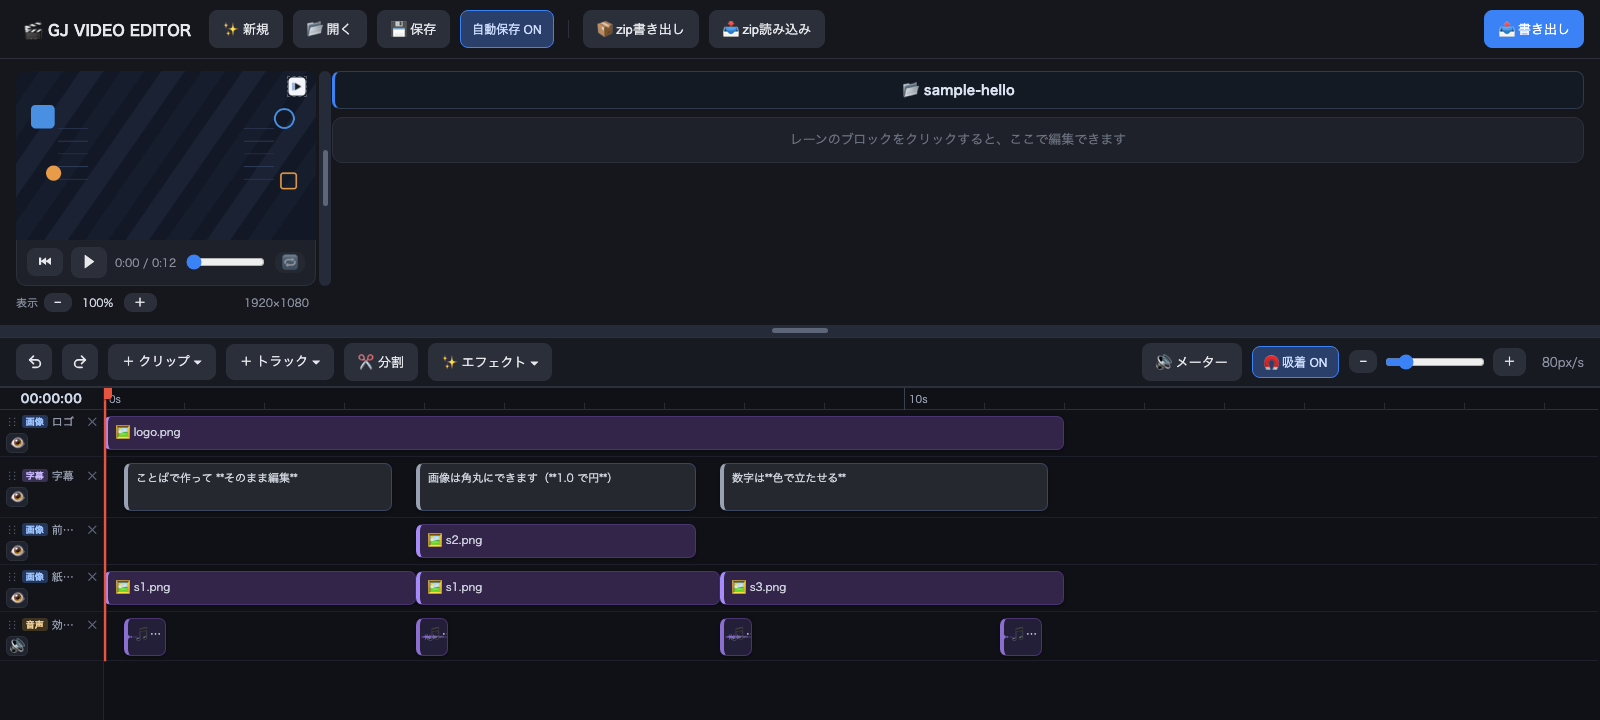
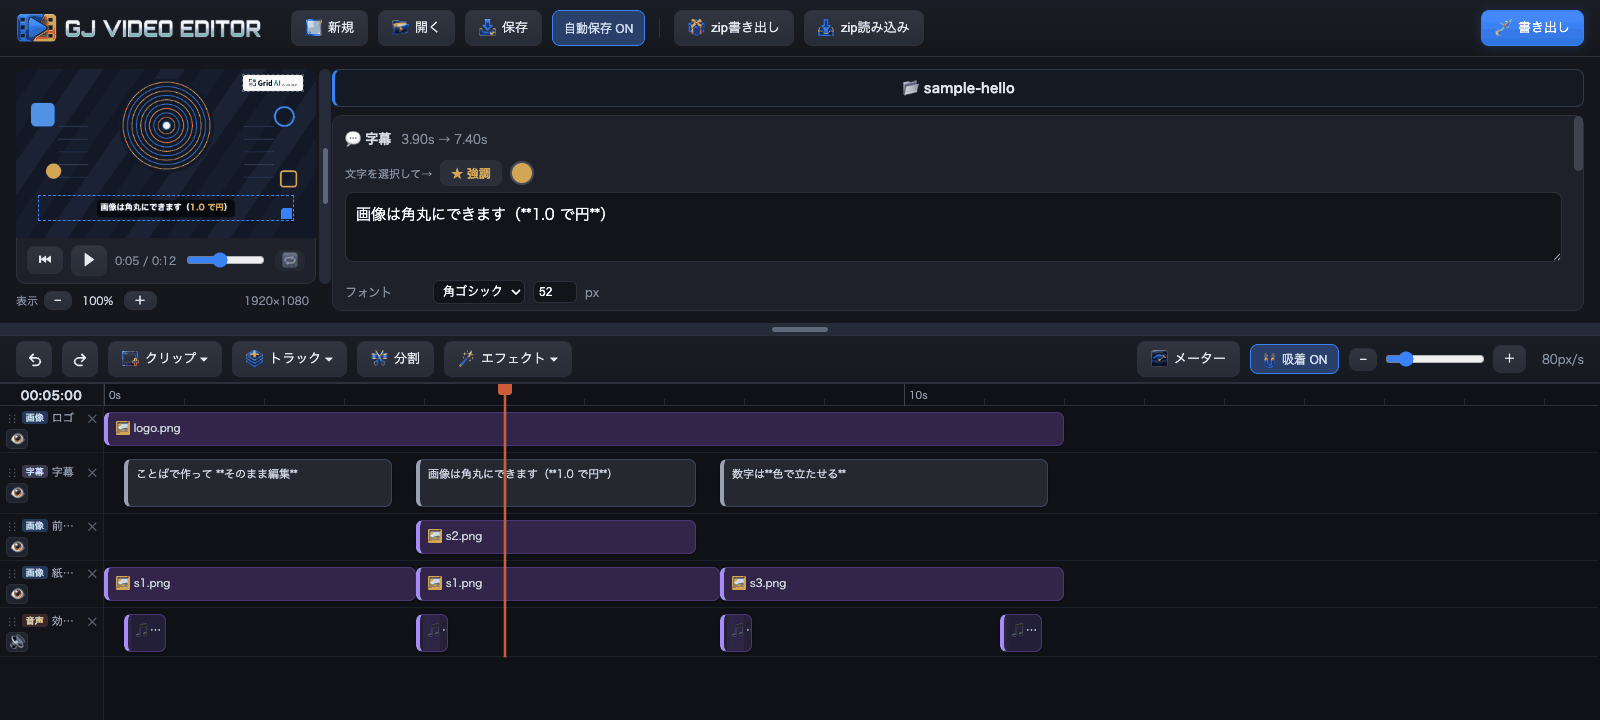
紹介ページを v0.16.0 に合わせて刷新
- スクリーンショット3枚を新しいUIで撮り直し
- 見出しを『AIで作り、必要なところだけ直せる』へ
- できること表に v0.16.0 の機能を追加（字幕アニメ・画像の動き・速度・色調整・
  トランジション・ダッキング・多言語・SRT・区間書き出し）
- 『壊れたものを成功と言わない』節を新設（検査とテストの説明）
- ヘッダのロゴマークとファビコンを追加

diff --git a/docs/jp/index.html b/docs/jp/index.html
@@ -3,12 +3,13 @@
 <head>
 <meta charset="utf-8">
 <meta name="viewport" content="width=device-width, initial-scale=1">
-<title>video-editor — 自然言語で作り、UIで仕上げる動画づくり</title>
-<meta name="description" content="AIに日本語で頼んで作り、タイムラインUIで仕上げる。Python標準ライブラリ＋Pillow＋ffmpegだけで動く、依存ゼロの動画編集ツール。MITライセンス。">
-<meta property="og:title" content="video-editor">
-<meta property="og:description" content="自然言語で作り、UIで仕上げる動画づくり。依存ゼロ・MITライセンス。">
+<title>GJ VIDEO EDITOR — AIで作り、必要なところだけ直せる動画ツール</title>
+<meta name="description" content="日本語で頼めばAIが動画を1本組み上げます。気になるところだけタイムラインUIで直せば、言い直すより早い。Python標準ライブラリ＋Pillow＋ffmpegだけで動く、依存ゼロ・MITライセンス。">
+<meta property="og:title" content="GJ VIDEO EDITOR">
+<meta property="og:description" content="AIで作り、必要なところだけ直せる。依存ゼロ・MITライセンス。">
 <meta property="og:image" content="../assets/editor.png">
 <meta property="og:type" content="website">
+<link rel="icon" type="image/png" href="../assets/favicon.png">
 <link rel="alternate" hreflang="ja" href="https://gridjapan.github.io/gjVideoEditor/jp/">
 <link rel="alternate" hreflang="en" href="https://gridjapan.github.io/gjVideoEditor/en/">
 <style>
@@ -29,7 +30,9 @@
   header{position:sticky;top:0;z-index:10;background:rgba(255,255,255,.88);
     backdrop-filter:saturate(180%) blur(12px);border-bottom:1px solid var(--line)}
   .hbar{display:flex;align-items:center;gap:20px;height:60px}
-  .logo{font-weight:700;color:var(--ink);font-size:15px;letter-spacing:.02em}
+  .logo{font-weight:700;color:var(--ink);font-size:15px;letter-spacing:.02em;
+    display:inline-flex;align-items:center;gap:8px}
+  .logo img{display:block;border-radius:4px}
   .hbar nav{margin-left:auto;display:flex;gap:18px;align-items:center;font-size:13px}
   .hbar nav a{color:var(--body)}
   .lang{color:var(--muted);font-size:12px}
@@ -108,7 +111,7 @@
 
 <header>
   <div class="wrap hbar">
-    <span class="logo">🎬 GJ VIDEO EDITOR</span>
+    <span class="logo"><img src="../assets/mark.png" alt="" width="22" height="22">GJ VIDEO EDITOR</span>
     <nav>
       <a href="#how">仕組み</a>
       <a href="#features">できること</a>
@@ -124,10 +127,11 @@
 
   <div class="hero">
     <p class="badge">開発中 · v0.16.0</p>
-    <h1>AIで作った動画を、<em>そのままUIで編集できる。</em></h1>
+    <h1>AIで作り、<em>必要なところだけ直せる。</em></h1>
     <p class="lede">
-      「この動画を作って」と頼んで出てきたものを、タイムラインで直接いじれます。
-      直したあとにまた言葉で指示しても、UIでの手直しは消えません。
+      作りたい動画を日本語で伝えれば、台本・音声・字幕・書き出しまでAIが進めます。
+      そのまま完成でも構いません。気になるところがあれば、
+      <strong>言い直すより早く、タイムラインで直せます。</strong>
     </p>
     <p class="sub">Python標準ライブラリ ＋ Pillow ＋ ffmpeg だけ。クラウドもAPIキーも不要です。</p>
     <img class="shot" src="../assets/editor.png" alt="video-editor の編集画面。上にプレビュー、下にマルチトラックのタイムライン">
@@ -149,17 +153,17 @@
 
     <div class="cols">
       <div class="card">
-        <h3>AIが書く（8割）</h3>
-        <p>差分パッチとして当たります。重なり・素材の欠落・尺の超過は<strong>保存する前に弾かれる</strong>ので、壊れたものができません。</p>
+        <h3>頼めば、1本できる</h3>
+        <p>AIの変更は差分パッチとして当たります。クリップの重なり・素材の欠落・尺の超過は<strong>保存する前に弾かれる</strong>ので、壊れたものができません。</p>
       </div>
       <div class="card">
-        <h3>人が直す（2割）</h3>
-        <p>ブラウザのタイムラインで直接動かします。他所からの更新とぶつかれば検知して止まります。</p>
+        <h3>直したいときは、そのまま触れる</h3>
+        <p>「この字幕を0.5秒ずらして、少し右へ」を言葉で伝えるより、掴んで動かすほうが早い場面があります。UIには同じデータがそのまま映っています。</p>
       </div>
     </div>
 
     <p class="note" style="margin-top:18px">
-      さらに、人が直した内容をAIが読み返せます。同じ直しが繰り返されているなら、それはAIの既定値が間違っているということです。
+      直した内容はAIが読み返せます。同じ直しが繰り返されているなら、それはAIの既定値が間違っているということです。
     </p>
   </section>
 
@@ -171,11 +175,35 @@
       <tr><th>タイムライン編集</th><td>映像・字幕・画像・音声のマルチトラック。ドラッグ&ドロップ、分割、undo/redo、吸着、ズーム</td></tr>
       <tr><th>非破壊編集</th><td>長い元動画を1本置いたまま、参照位置だけをずらして使います。切り出しファイルを作らないので、<strong>端をいつでも伸ばせます</strong></td></tr>
       <tr><th>字幕</th><td>枠のドラッグ・リサイズ・フォント・360°回転・<strong>縦書き</strong>・部分強調・画面端への吸着</td></tr>
+      <tr><th>字幕アニメーション</th><td><strong>数字のカウントアップ</strong>・1文字ずつの文字送り・画面外からのスライドイン・スタンプ登場。数値の差を見せる<strong>比較バー</strong>も付けられます</td></tr>
+      <tr><th>画像の動き</th><td>フェードイン／アウト・不透明度・ゆっくり寄る／引く（ケンバーンズ）・上下左右へのパン</td></tr>
+      <tr><th>映像の調整</th><td>再生速度（0.25〜4倍。声の高さは保ったまま）・左右反転・トリミング・角丸</td></tr>
+      <tr><th>色調整</th><td>明るさ・コントラスト・彩度。<strong>プレビューと書き出しが同じ計算式</strong>なので、見たまま出ます</td></tr>
+      <tr><th>トランジション</th><td>フェードイン／アウト／クロスフェードをワンクリックで。重ね方はツールが自動で組みます</td></tr>
       <tr><th>ワイプ（PiP）</th><td>プレビュー上でドラッグして移動・拡大縮小。角丸を1.0にすると正円になります</td></tr>
-      <tr><th>書き出し</th><td>MP4 / WebM / GIF / MP3。画質と解像度を選べます</td></tr>
+      <tr><th>音声</th><td>音量・フェード・<strong>BGMの自動ダッキング</strong>（ナレーション中だけ沈む）・短いBGMのループ・ラウドネス正規化</td></tr>
       <tr><th>ナレーション</th><td>無料でAPIキー不要の音声合成に対応。複数の声を使い分けられます</td></tr>
+      <tr><th>マスク</th><td>モザイク・ぼかし・黒塗り。会議録画に映り込んだものを隠せます</td></tr>
+      <tr><th>多言語</th><td>文字種に合わせてフォントを自動で切り替え。<strong>フォントが描けない文字は書き出す前に検出</strong>します</td></tr>
+      <tr><th>字幕ファイル</th><td>SRTの書き出しと取り込み。他ツールで作った字幕もそのまま持ち込めます</td></tr>
+      <tr><th>書き出し</th><td>MP4 / WebM / GIF / MP3。画質・解像度に加えて<strong>秒数で範囲を指定</strong>できます（直した数秒だけの確認に）</td></tr>
       <tr><th>量産</th><td>台本を1枚書いて1コマンドで動画が1本。Pythonは書きません</td></tr>
     </table>
+
+    <h3 style="margin-top:34px">壊れたものを「成功」と言わない</h3>
+    <p>
+      書き出しは、失敗しても最後まで走ってしまうことがあります。このツールは<strong>保存と書き出しの前に検査します。</strong>
+    </p>
+    <table>
+      <tr><th>重なり・尺</th><td>同じトラックでクリップが重なっていないか。素材の長さを超えて伸ばしていないか</td></tr>
+      <tr><th>文字化け</th><td>選んだフォントで<strong>描けない文字（□になる字）を事前に検出</strong>します</td></tr>
+      <tr><th>読めるか</th><td>字幕と下敷きのコントラスト比、実際の描画幅での枠からの溢れ</td></tr>
+      <tr><th>素材の実在</th><td>足りないファイルを名前で挙げて止まります。英語のエラーは出しません</td></tr>
+    </table>
+    <p class="note">
+      検査そのものにも総当りのテストが付いています（レンダラ40項目・編集ツール32項目・サーバ31項目）。
+      判定は「例外が出なかったか」ではなく、<strong>書き出した動画の画素と音量を実測して</strong>行います。
+    </p>
 
     <h3 style="margin-top:34px">このツールで作った動画</h3>
     <p class="note">下の28秒の動画も、このツールで組み立てて書き出したものです。</p>

diff --git a/docs/en/index.html b/docs/en/index.html
@@ -3,12 +3,13 @@
 <head>
 <meta charset="utf-8">
 <meta name="viewport" content="width=device-width, initial-scale=1">
-<title>video-editor — Build with words, finish in the UI</title>
-<meta name="description" content="Ask an AI in plain language, then finish it on a timeline UI. Runs on the Python standard library, Pillow and ffmpeg. No cloud, no API keys. MIT licensed.">
-<meta property="og:title" content="video-editor">
-<meta property="og:description" content="Build with words, finish in the UI. No dependencies to speak of. MIT licensed.">
+<title>GJ VIDEO EDITOR — Built by AI, fixable where it matters</title>
+<meta name="description" content="Describe the video you want and an AI assembles it end to end. Keep it as is, or fix the parts that bother you on a timeline — faster than explaining them again. Python standard library + Pillow + ffmpeg. MIT licensed.">
+<meta property="og:title" content="GJ VIDEO EDITOR">
+<meta property="og:description" content="Built by AI, fixable where it matters. No dependencies to speak of. MIT licensed.">
 <meta property="og:image" content="../assets/editor.png">
 <meta property="og:type" content="website">
+<link rel="icon" type="image/png" href="../assets/favicon.png">
 <link rel="alternate" hreflang="ja" href="https://gridjapan.github.io/gjVideoEditor/jp/">
 <link rel="alternate" hreflang="en" href="https://gridjapan.github.io/gjVideoEditor/en/">
 <style>
@@ -29,7 +30,9 @@
   header{position:sticky;top:0;z-index:10;background:rgba(255,255,255,.88);
     backdrop-filter:saturate(180%) blur(12px);border-bottom:1px solid var(--line)}
   .hbar{display:flex;align-items:center;gap:20px;height:60px}
-  .logo{font-weight:700;color:var(--ink);font-size:15px;letter-spacing:.02em}
+  .logo{font-weight:700;color:var(--ink);font-size:15px;letter-spacing:.02em;
+    display:inline-flex;align-items:center;gap:8px}
+  .logo img{display:block;border-radius:4px}
   .hbar nav{margin-left:auto;display:flex;gap:18px;align-items:center;font-size:13px}
   .hbar nav a{color:var(--body)}
   .lang{color:var(--muted);font-size:12px}
@@ -108,7 +111,7 @@
 
 <header>
   <div class="wrap hbar">
-    <span class="logo">🎬 GJ VIDEO EDITOR</span>
+    <span class="logo"><img src="../assets/mark.png" alt="" width="22" height="22">GJ VIDEO EDITOR</span>
     <nav>
       <a href="#how">How</a>
       <a href="#features">Features</a>
@@ -124,10 +127,11 @@
 
   <div class="hero">
     <p class="badge">Work in progress · v0.16.0</p>
-    <h1>Video made by AI, <em>editable in a real UI.</em></h1>
+    <h1>Built by AI, <em>fixable where it matters.</em></h1>
     <p class="lede">
-      Ask for a video, then drag what came out around on a timeline.
-      Prompt again afterwards and your manual edits are still there.
+      Describe the video you want and the AI handles the script, the voice, the subtitles
+      and the export. Ship it as is — or, when something bothers you,
+      <strong>fix it on the timeline instead of explaining it again.</strong>
     </p>
     <p class="sub">Python standard library + Pillow + ffmpeg. No cloud, no API keys.</p>
     <img class="shot" src="../assets/editor.png" alt="The video-editor workspace: preview on top, multi-track timeline below">
@@ -149,12 +153,12 @@
 
     <div class="cols">
       <div class="card">
-        <h3>The AI writes (80%)</h3>
-        <p>Changes land as diffs. Overlaps, missing assets and out-of-range durations are <strong>rejected before saving</strong>, so you never end up with a broken project.</p>
+        <h3>Ask once, get a video</h3>
+        <p>The AI's changes land as diffs. Overlapping clips, missing assets and out-of-range durations are <strong>rejected before saving</strong>, so you never end up with a broken project.</p>
       </div>
       <div class="card">
-        <h3>You fix (20%)</h3>
-        <p>Drag things around on the timeline in your browser. Conflicting edits from elsewhere are detected and blocked.</p>
+        <h3>Reach in whenever you want</h3>
+        <p>"Move that subtitle half a second later and a bit to the right" is sometimes just faster to drag than to describe. The UI shows exactly the same data.</p>
       </div>
     </div>
 
@@ -171,11 +175,36 @@
       <tr><th>Timeline</th><td>Multi-track video, subtitles, images and audio. Drag &amp; drop, split, undo/redo, snapping, zoom</td></tr>
       <tr><th>Non-destructive</th><td>Keep one long source and just move the in-point. Nothing is cut out, so <strong>you can always extend a clip's edges</strong></td></tr>
       <tr><th>Subtitles</th><td>Drag, resize, fonts, 360° rotation, <strong>vertical writing</strong>, inline emphasis, edge snapping</td></tr>
+      <tr><th>Subtitle animation</th><td><strong>Counting numbers up</strong>, typewriter reveal, slide-in from off-screen, stamp-style pop. Add a <strong>comparison bar</strong> to make a gap between two numbers obvious</td></tr>
+      <tr><th>Image motion</th><td>Fade in/out, opacity, slow push in or pull out (Ken Burns), and panning in any direction</td></tr>
+      <tr><th>Video adjustments</th><td>Playback speed (0.25×–4×, pitch preserved), horizontal flip, cropping, rounded corners</td></tr>
+      <tr><th>Colour</th><td>Brightness, contrast and saturation. <strong>The preview and the export use the same formula</strong>, so what you see is what you get</td></tr>
+      <tr><th>Transitions</th><td>Fade in, fade out and cross-fade in one click. The tool works out the layering for you</td></tr>
       <tr><th>Picture-in-picture</th><td>Drag and scale right on the preview. Set the corner radius to 1.0 for a perfect circle</td></tr>
-      <tr><th>Export</th><td>MP4 / WebM / GIF / MP3, with quality and resolution options</td></tr>
+      <tr><th>Audio</th><td>Gain, fades, <strong>automatic music ducking</strong> under narration, looping for short tracks, loudness normalisation</td></tr>
       <tr><th>Narration</th><td>Free text-to-speech, no API key. Mix multiple voices</td></tr>
+      <tr><th>Masking</th><td>Mosaic, blur or solid fill — for whatever wandered into a screen recording</td></tr>
+      <tr><th>Multilingual</th><td>Fonts switch automatically by script. <strong>Characters the font cannot draw are caught before export</strong></td></tr>
+      <tr><th>Subtitle files</th><td>Import and export SRT, so subtitles made elsewhere come straight in</td></tr>
+      <tr><th>Export</th><td>MP4 / WebM / GIF / MP3, with quality and resolution options, plus <strong>an arbitrary time range</strong> when you only want to check the seconds you just changed</td></tr>
       <tr><th>Batch</th><td>One script file, one command, one video. You don't write Python</td></tr>
     </table>
+
+    <h3 style="margin-top:34px">A broken export is never called a success</h3>
+    <p>
+      Exports have a habit of running to completion even when something went wrong.
+      This one <strong>checks before it saves and before it renders.</strong>
+    </p>
+    <table>
+      <tr><th>Overlaps &amp; length</th><td>No two clips overlapping on one track; nothing stretched past the end of its source</td></tr>
+      <tr><th>Missing glyphs</th><td><strong>Characters your chosen font cannot draw</strong> — the ones that come out as boxes — are found in advance</td></tr>
+      <tr><th>Legibility</th><td>Contrast ratio between subtitle and backing plate, and overflow measured at the real rendered width</td></tr>
+      <tr><th>Missing assets</th><td>Stops and names the files. You never get a raw ffmpeg error</td></tr>
+    </table>
+    <p class="note">
+      The checks have their own test suite (40 renderer cases, 32 for the editing tool, 31 for the server).
+      Passing means <strong>the pixels and the audio levels of the exported file were measured</strong> — not merely that nothing threw.
+    </p>
 
     <h3 style="margin-top:34px">Made with this tool</h3>
     <p class="note">The 28-second video below was assembled and exported with this tool.</p>
